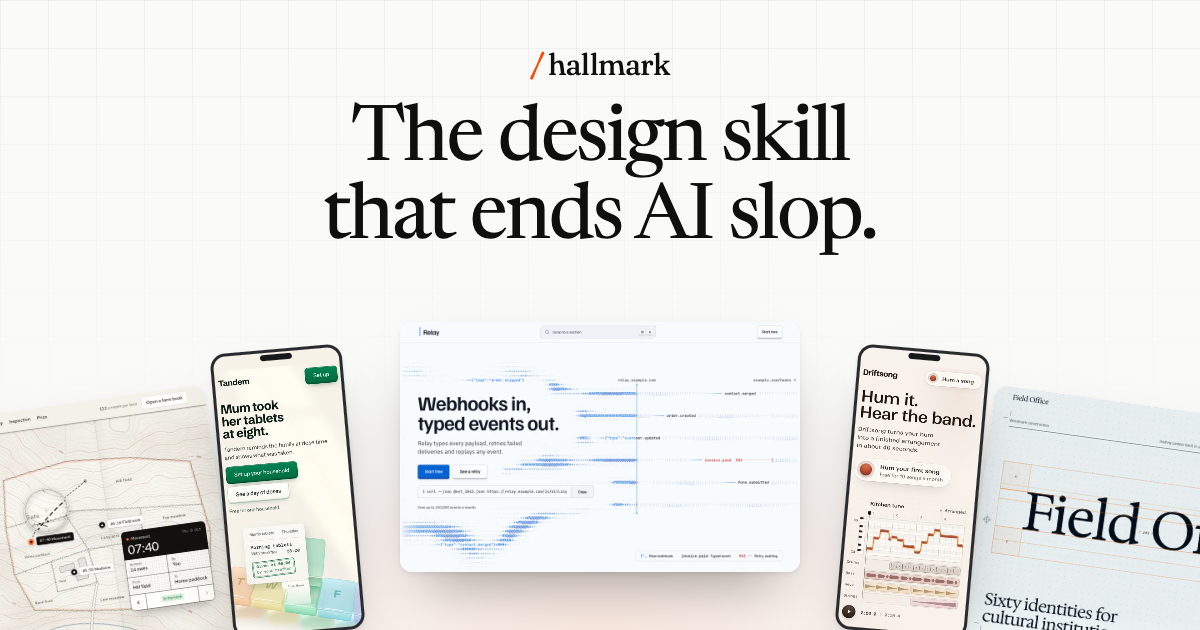
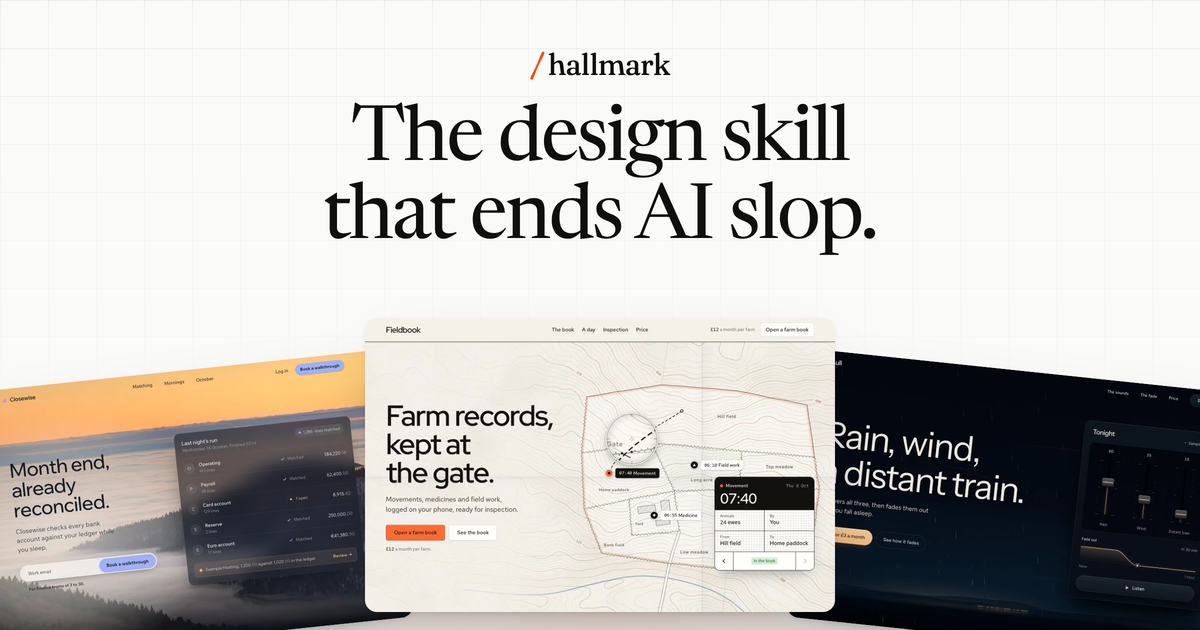
Site: a new social card, three theme pages with Fieldbook in the middle, versioned so shares fetch it fresh

diff --git a/site/index.html b/site/index.html
@@ -10,11 +10,12 @@
   <meta property="og:url" content="https://www.usehallmark.com/">
   <meta property="og:title" content="Hallmark, design taste for coding agents">
   <meta property="og:description" content="A design skill for Claude Code, Codex and OpenCode that ends AI slop.">
-  <meta property="og:image" content="https://www.usehallmark.com/OG-hallmark.png">
+  <meta property="og:image" content="https://www.usehallmark.com/OG-hallmark.png?v=20261022">
   <meta name="twitter:card" content="summary_large_image">
   <meta property="og:image:width" content="1200">
   <meta property="og:image:height" content="630">
-  <meta name="twitter:image" content="https://www.usehallmark.com/OG-hallmark.png">
+  <meta property="og:image:alt" content="Hallmark: the design skill that ends AI slop, over three theme pages">
+  <meta name="twitter:image" content="https://www.usehallmark.com/OG-hallmark.png?v=20261022">
   <link rel="icon" href="favicon.ico" sizes="32x32">
   <link rel="icon" type="image/svg+xml" href="favicon.svg">
   <link rel="apple-touch-icon" href="apple-touch-icon.png">

diff --git a/README.md b/README.md
@@ -7,7 +7,7 @@
 Made by Together AI.
 
 <p align="center">
-  <img src="site/OG-hallmark.png" alt="Hallmark, a design skill that refuses to look AI-generated" />
+  <img src="site/OG-hallmark.png" alt="Hallmark, the design skill that ends AI slop" />
 </p>
 
 Hallmark holds a hard floor and then gets out of the way. It deals three themes from a catalog of forty-eight materials, builds the page around what the visitor came to do, and lints the result in a real browser against the tells that read as machine-made: the eyebrow above every heading, tracked-capital labels, one coloured word in a headline, a page of empty frames or nothing but photographs, a hero that misses its screen, an email sign-up at the end of every page, a form that says thanks without sending anything. A fresh-context reviewer gets the last word.
